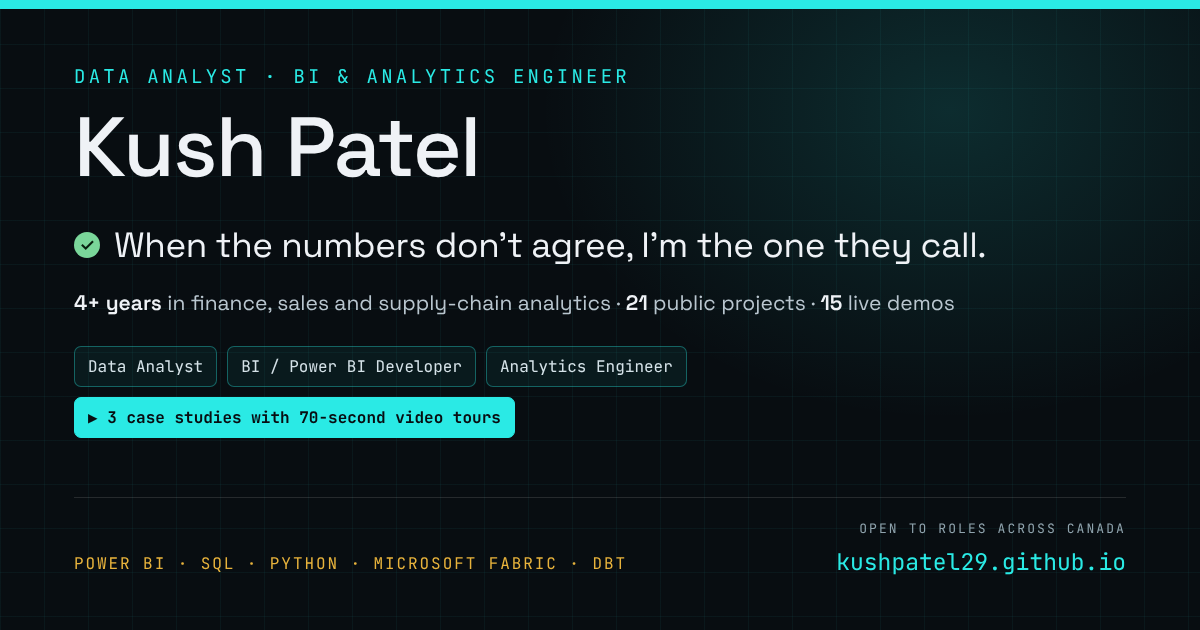
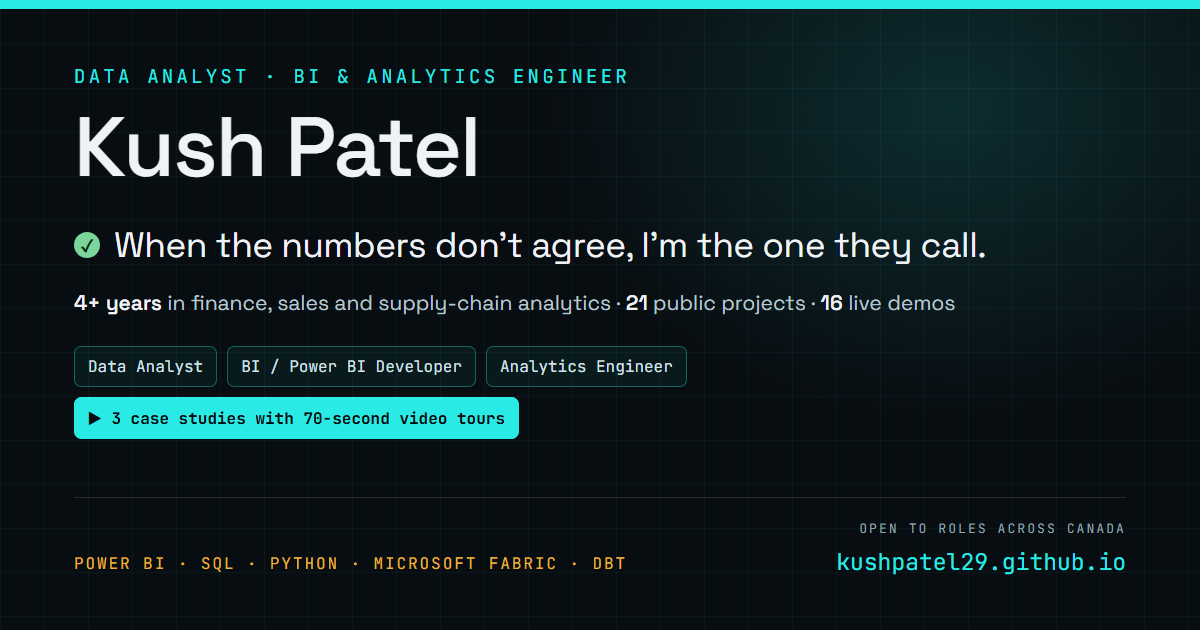
Link verified Tableau Public demo and reconcile sixteen live projects

diff --git a/index.html b/index.html
@@ -11,7 +11,7 @@
 <meta name="viewport" content="width=device-width, initial-scale=1">
 
 <title>Kush Patel | Data Analyst · BI &amp; Analytics Engineer | Vancouver, Canada</title>
-<meta name="description" content="Data analyst and BI / analytics engineer with 4+ years in finance, sales and supply-chain reporting: Power BI, SQL, Python, Microsoft Fabric, Databricks and dbt. 21 public projects, 15 live demos, four include real public data.">
+<meta name="description" content="Data analyst and BI / analytics engineer with 4+ years in finance, sales and supply-chain reporting: Power BI, SQL, Python, Microsoft Fabric, Databricks and dbt. 21 public projects, 16 live demos, four include real public data.">
 <meta name="author" content="Kush Patel">
 <link rel="canonical" href="https://kushpatel29.github.io/">
 
@@ -19,8 +19,8 @@
 <meta property="og:site_name" content="Kush Patel">
 <meta property="og:url" content="https://kushpatel29.github.io/">
 <meta property="og:title" content="Kush Patel | Data Analyst · BI &amp; Analytics Engineer | Vancouver, Canada">
-<meta property="og:description" content="Data analyst and BI / analytics engineer with 4+ years in finance, sales and supply-chain reporting: Power BI, SQL, Python, Microsoft Fabric, Databricks and dbt. 21 public projects, 15 live demos, four include real public data.">
-<meta property="og:image" content="https://kushpatel29.github.io/assets/og-share.png?v=21-15-r2">
+<meta property="og:description" content="Data analyst and BI / analytics engineer with 4+ years in finance, sales and supply-chain reporting: Power BI, SQL, Python, Microsoft Fabric, Databricks and dbt. 21 public projects, 16 live demos, four include real public data.">
+<meta property="og:image" content="https://kushpatel29.github.io/assets/og-share.png?v=21-16-r3">
 <meta property="og:image:width" content="1200">
 <meta property="og:image:height" content="630">
 <meta property="og:image:alt" content="Kush Patel — data analyst, BI and analytics engineer in Vancouver, open to data roles across Canada">
@@ -28,8 +28,8 @@
 
 <meta name="twitter:card" content="summary_large_image">
 <meta name="twitter:title" content="Kush Patel | Data Analyst · BI &amp; Analytics Engineer | Vancouver, Canada">
-<meta name="twitter:description" content="Data analyst and BI / analytics engineer with 4+ years in finance, sales and supply-chain reporting: Power BI, SQL, Python, Microsoft Fabric, Databricks and dbt. 21 public projects, 15 live demos, four include real public data.">
-<meta name="twitter:image" content="https://kushpatel29.github.io/assets/og-share.png?v=21-15-r2">
+<meta name="twitter:description" content="Data analyst and BI / analytics engineer with 4+ years in finance, sales and supply-chain reporting: Power BI, SQL, Python, Microsoft Fabric, Databricks and dbt. 21 public projects, 16 live demos, four include real public data.">
+<meta name="twitter:image" content="https://kushpatel29.github.io/assets/og-share.png?v=21-16-r3">
 <meta name="twitter:image:alt" content="Kush Patel — data analyst, BI and analytics engineer in Vancouver, open to data roles across Canada">
 
 <meta name="theme-color" content="#080d11" media="(prefers-color-scheme: dark)">
@@ -76,7 +76,7 @@
       "dateModified": "2026-10-24",
       "mainEntity": { "@id": "https://kushpatel29.github.io/#kushpatel" },
       "about": { "@id": "https://kushpatel29.github.io/#kushpatel" },
-      "primaryImageOfPage": "https://kushpatel29.github.io/assets/og-share.png?v=21-15-r2"
+      "primaryImageOfPage": "https://kushpatel29.github.io/assets/og-share.png?v=21-16-r3"
     },
     {
       "@type": "Person",
@@ -481,7 +481,7 @@ WHERE verdict = 'GO'</pre>
       <div class="metric-label">public projects, code included</div>
     </div>
     <div class="metric">
-      <div class="metric-value" data-count="15" data-metric="live-demos">15</div>
+      <div class="metric-value" data-count="16" data-metric="live-demos">16</div>
       <div class="metric-label">live demos you can open now</div>
     </div>
     <div class="metric">
@@ -800,7 +800,7 @@ WHERE verdict = 'GO'</pre>
   <section id="work" class="section" aria-label="Projects">
     <p class="eyebrow">PROJECTS</p>
     <h2>Twenty-one projects, each ending in a finding you can check</h2>
-    <p class="section-sub">Start with the three case studies, then filter the rest by the work your team does. Fifteen run live in the browser. Four include real public records: B.C. municipal filings, company filings, national fire data and Google’s obfuscated GA4 export. Other analyses use seeded synthetic data; project dollar outcomes are modelled.</p>
+    <p class="section-sub">Start with the three case studies, then filter the rest by the work your team does. Sixteen run live in the browser. Four include real public records: B.C. municipal filings, company filings, national fire data and Google’s obfuscated GA4 export. Other analyses use seeded synthetic data; project dollar outcomes are modelled.</p>
     <p class="demo-note">Live apps on Streamlit can take 30–60 seconds to wake. Every case study also has screenshots, a document you can download and the code, so nothing depends on a demo being awake.</p>
 
     <!-- Filter bar -->
@@ -995,7 +995,7 @@ WHERE verdict = 'GO'</pre>
         <h4>GL / P&amp;L Reconciliation</h4>
         <p class="archive-outcome">At month-end, 8 of 60 account-periods certify themselves, 9 go to a named reviewer and 43 are blocked. No approval is invented to make the close look finished.</p>
         <p class="archive-stack">T-SQL · SQLite · Power BI · Tableau</p>
-        <div class="archive-links"><a  href="https://github.com/KushPatel29/gl-reconciliation-dashboard/blob/master/output/close_certification_packet.md" target="_blank" rel="noopener">Close packet <span aria-hidden="true">↗</span></a><a  href="https://github.com/KushPatel29/gl-reconciliation-dashboard" target="_blank" rel="noopener">Code <span aria-hidden="true">↗</span></a></div>
+        <div class="archive-links"><a class="is-live" href="https://public.tableau.com/app/profile/kush.patel4990/viz/GLCloseControls-SyntheticData/Closecontrolsoverview" target="_blank" rel="noopener">Tableau Public <span aria-hidden="true">↗</span></a><a  href="https://github.com/KushPatel29/gl-reconciliation-dashboard/blob/master/output/close_certification_packet.md" target="_blank" rel="noopener">Close packet <span aria-hidden="true">↗</span></a><a  href="https://github.com/KushPatel29/gl-reconciliation-dashboard" target="_blank" rel="noopener">Code <span aria-hidden="true">↗</span></a></div>
       </article>
       <article class="project archive-item" id="p-pricing-analytics" data-tags="bi finance supply">
         <p class="archive-kicker">PRICING &amp; MARGIN</p>
@@ -1737,7 +1737,7 @@ WHERE verdict = 'GO'</pre>
       </div>
       <div class="faq-item">
         <dt>Can I see the code?</dt>
-        <dd>Yes. All 21 projects are public on <a href="https://github.com/KushPatel29" target="_blank" rel="noopener">GitHub ↗</a>, each publishes reproducible validation evidence, and 15 also run as live demos.</dd>
+        <dd>Yes. All 21 projects are public on <a href="https://github.com/KushPatel29" target="_blank" rel="noopener">GitHub ↗</a>, each publishes reproducible validation evidence, and 16 also run as live demos.</dd>
       </div>
     </dl>
   </section>

diff --git a/resume/resume.html b/resume/resume.html
@@ -16,7 +16,7 @@
   <li>Data analyst and BI / analytics engineer with 4+ years turning raw operational and financial data (ERP, POS, WMS, workforce and REST feeds) into governed warehouse layers, Power BI reporting and decisions that Sales, Finance and Supply Chain can defend. Sole analyst across a perishable-goods supply chain; before that, a financial analyst running month-end GL/P&amp;L reconciliations.</li>
   <li>Builds dimensional models on cloud warehouses (Microsoft Fabric, Azure Synapse, SQL Server) with Bronze/Silver/Gold medallion layers, conformed dimensions and SCD Type 1/2, orchestrated in Azure Data Factory and Fabric pipelines (dbt and Airflow in project work, not production).</li>
   <li>Delivers Power BI end to end — semantic model, DAX measure library, RLS, publish-ready reports — and treats data quality as a control: automated reconciliation cut recurring discrepancies an estimated ~45% by fixing issues at the feed rather than in the report.</li>
-  <li>Three public case studies below, each with a 70-second video tour: Power BI and Excel reporting that ties out to the cent, a contract-tested PySpark and Delta Lake pipeline, and a dbt model over 90 official B.C. filings. Eighteen more projects, fifteen with live demos, at <a href="https://kushpatel29.github.io/">kushpatel29.github.io</a>.</li>
+  <li>Three public case studies below, each with a 70-second video tour: Power BI and Excel reporting that ties out to the cent, a contract-tested PySpark and Delta Lake pipeline, and a dbt model over 90 official B.C. filings. Explore 21 public projects and 16 hosted demos at <a href="https://kushpatel29.github.io/">kushpatel29.github.io</a>.</li>
 </ul>
 
 <h2>Technical Skills</h2>

diff --git a/tools/og-banner.html b/tools/og-banner.html
@@ -32,7 +32,7 @@ h1{margin:16px 0 0;font-size:84px;line-height:1;font-weight:500;letter-spacing:-
   <div class="eyebrow">DATA ANALYST · BI &amp; ANALYTICS ENGINEER</div>
   <h1>Kush Patel</h1>
   <div class="claim"><span class="tick">✓</span>When the numbers don’t agree, I’m the one they call.</div>
-  <div class="facts"><b>4+ years</b> in finance, sales and supply-chain analytics · <b data-og="projects">21</b> public projects · <b data-og="live-demos">15</b> live demos</div>
+  <div class="facts"><b>4+ years</b> in finance, sales and supply-chain analytics · <b data-og="projects">21</b> public projects · <b data-og="live-demos">16</b> live demos</div>
   <div class="roles"><span>Data Analyst</span><span>BI / Power BI Developer</span><span>Analytics Engineer</span><span class="tours">▶ 3 case studies with 70-second video tours</span></div>
 </div>
 <div class="rule"></div>

diff --git a/.claude/skills/role-fit-analysis/references/evidence-inventory.md b/.claude/skills/role-fit-analysis/references/evidence-inventory.md
@@ -96,7 +96,7 @@ marked PAID+PROJECT has both; cite the paid evidence first.
 | Incremental refresh | PAID | Two Rivers | — |
 | SSRS paginated reports, SSIS | PAID | Two Rivers legacy estate | maintained + migrated, not greenfield |
 | Excel (Power Query, Power Pivot, dynamic arrays, LAMBDA, data tables, LINEST) | PAID (general) + PROJECT (advanced) | Shivam; excel-fpa-model, bc-local-government-finance, GrowthOps OS (window-driven workbook, campaign scorecard) | advanced features are shown in projects |
-| Tableau | PROJECT | GL recon Tableau close scorecard generated from script | not used in a job |
+| Tableau | PROJECT | GL recon generated desktop workbook plus published compact Tableau Public view of the tested control extract; 60 account-periods, 43 outside 0.5% tolerance, monthly filter action | not used in a job; the compact web view is separate from the seven-sheet generated desktop workbook |
 | Python (pandas, NumPy, scikit-learn) | PAID+PROJECT | Shivam automation; Two Rivers forecasting web apps; all repos | — |
 | PySpark | PAID+PROJECT | Two Rivers Fabric/Synapse; control tower on Databricks | — |
 | Microsoft Fabric (Lakehouse, Warehouse, pipelines, notebooks) | PAID | Two Rivers | DP-600 in progress, not held |
@@ -203,7 +203,7 @@ Mirrors `portfolio-manifest.json` (checked by `tools/check-role-fit-skill.mjs`).
 | Corridor Decision Intelligence | p-corridor | 244 | synthetic | yes | DS, pricing/loyalty DA — causal uplift from a ten-arm randomized trial, certified MIP over 112,563 customer-offer decisions (75% of the true-value ceiling vs 7% for propensity targeting), policy A/B test +$1.40/customer, Databricks + PySpark parity, FastAPI, Power BI |
 | Health System Decision Support | p-healthcare | 819 | synthetic | no | healthcare DA/BA — SPC, decision packet |
 | Pricing & Costing Analytics | p-pricing-analytics | 3182 | synthetic | yes | DA, FA — pocket-price waterfall, approval routing |
-| GL / P&L Reconciliation | p-gl-recon | 710 | synthetic | no | FA — close certification, SoD, Tableau + Power BI |
+| GL / P&L Reconciliation | p-gl-recon | 710 | synthetic | yes | FA — close certification, SoD, Tableau + Power BI |
 | Finance Decision Models in Excel and Power BI | p-excel-fpa | 1263 | public-open-data-and-synthetic | no | FA, DA — utility plan-vs-actual, Excel + Power BI tie-out |
 | B.C. Local-Government Finance | p-bc-finance | 181 | public-open-data | no | AE, FA, public sector — 90 contracted files, dbt 31 tests |
 | Transaction Monitoring | p-aml-monitoring | 270 | synthetic | yes | DS, fincrime — 60/60 planted cases; sanctions name screening on the real Consolidated Canadian Autonomous Sanctions List: threshold set on one half by a fixed rule, 97.2% of standard name variants caught on the held-out half at 10 alerts per 10,000 synthetic customers (Oct 2026) |

diff --git a/README.md b/README.md
@@ -156,7 +156,7 @@ the portfolio's public claims and product strategy in one reviewable place.
 **`tools/check-role-fit.mjs`** reads every Role fit panel and fails if a row
 has no source, if its chip disagrees with its tick, if the "Tied out" totals
 differ from the rows above them, or if a reading-list link lands nowhere.
-**`tools/check-headline-counts.mjs`** holds the "21 projects / 15 live demos"
+**`tools/check-headline-counts.mjs`** holds the "21 projects / 16 live demos"
 figures — hero band, link-preview descriptions and prose headings, digits or
 words — to the manifest.
 
